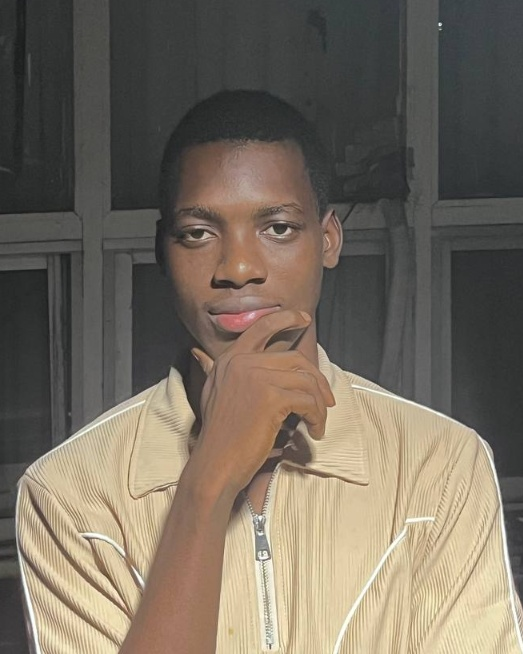
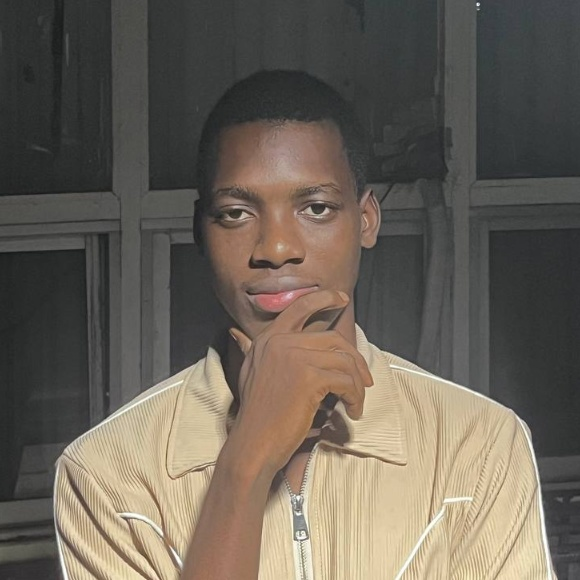
feat: add Hero component, profile images, and responsive layout styling

diff --git a/index.css b/index.css
@@ -203,12 +203,13 @@ body {
   width: min(100%, 48rem);
   margin: 0 auto;
   padding: 2.5rem 1.25rem 0;
+  position: relative;
 }
 
 @media (max-width: 640px) {
   .home-layout {
-    grid-template-columns: 1fr;
-    gap: 2rem;
+    display: block;
+    padding-top: 2rem;
   }
 }
 
@@ -259,21 +260,29 @@ body {
   border-radius: 999px;
   border: 1px solid var(--line);
   box-shadow: 0 1px 0 var(--line), var(--shadow);
-  margin-top: 5rem;
+  margin-top: 6.5rem;
   animation: 0.68s cubic-bezier(0.16, 1, 0.3, 1) 0.12s both portraitIn;
-  transition: transform 0.4s cubic-bezier(0.16, 1, 0.3, 1), box-shadow 0.4s;
+  transition: transform 0.42s cubic-bezier(0.16, 1, 0.3, 1), box-shadow 0.4s, filter 0.42s;
 }
 
 .portrait:hover {
-  transform: scale(1.04);
+  filter: saturate(1.08);
+  transform: translateY(-3px) rotate(-1deg) scale(1.03);
 }
 
 @media (max-width: 640px) {
+  .home-copy p:first-of-type {
+    min-height: 7.2rem;
+    padding-right: 7.5rem;
+  }
+
   .portrait {
-    margin-top: 0;
-    width: 6.5rem;
-    height: 6.5rem;
-    order: -1;
+    width: 6.85rem;
+    height: 6.85rem;
+    margin: 0;
+    position: absolute;
+    top: 5.25rem;
+    right: 1.25rem;
   }
 }
 

diff --git a/components/Hero.tsx b/components/Hero.tsx
@@ -36,23 +36,21 @@ const Hero: React.FC = () => {
       </div>
 
       {/* Right Column: Clean Circular Portrait */}
-      <div className="flex justify-center sm:justify-end">
-        {imageFailed ? (
-          <div className="portrait flex items-center justify-center font-mono text-lg font-bold">
-            YO
-          </div>
-        ) : (
-          <img
-            className="portrait"
-            src="/portfolio_pics.jpg"
-            alt={HERO_DATA.fullName}
-            width={140}
-            height={140}
-            loading="eager"
-            onError={() => setImageFailed(true)}
-          />
-        )}
-      </div>
+      {imageFailed ? (
+        <div className="portrait flex items-center justify-center font-mono text-lg font-bold">
+          YO
+        </div>
+      ) : (
+        <img
+          className="portrait"
+          src="/portfolio_pics.jpg"
+          alt={HERO_DATA.fullName}
+          width={140}
+          height={140}
+          loading="eager"
+          onError={() => setImageFailed(true)}
+        />
+      )}
     </section>
   );
 };
